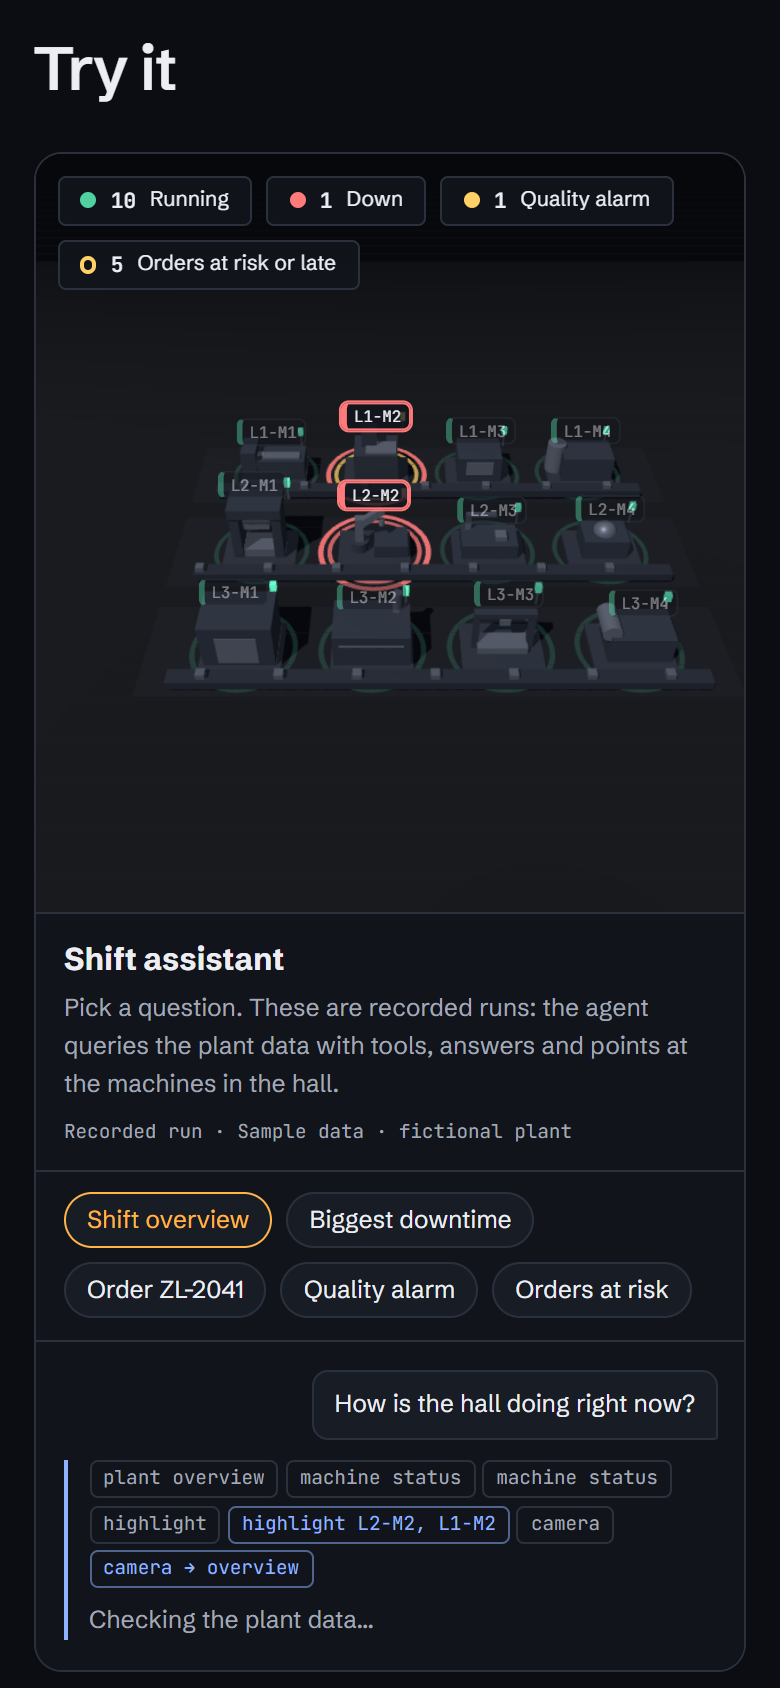
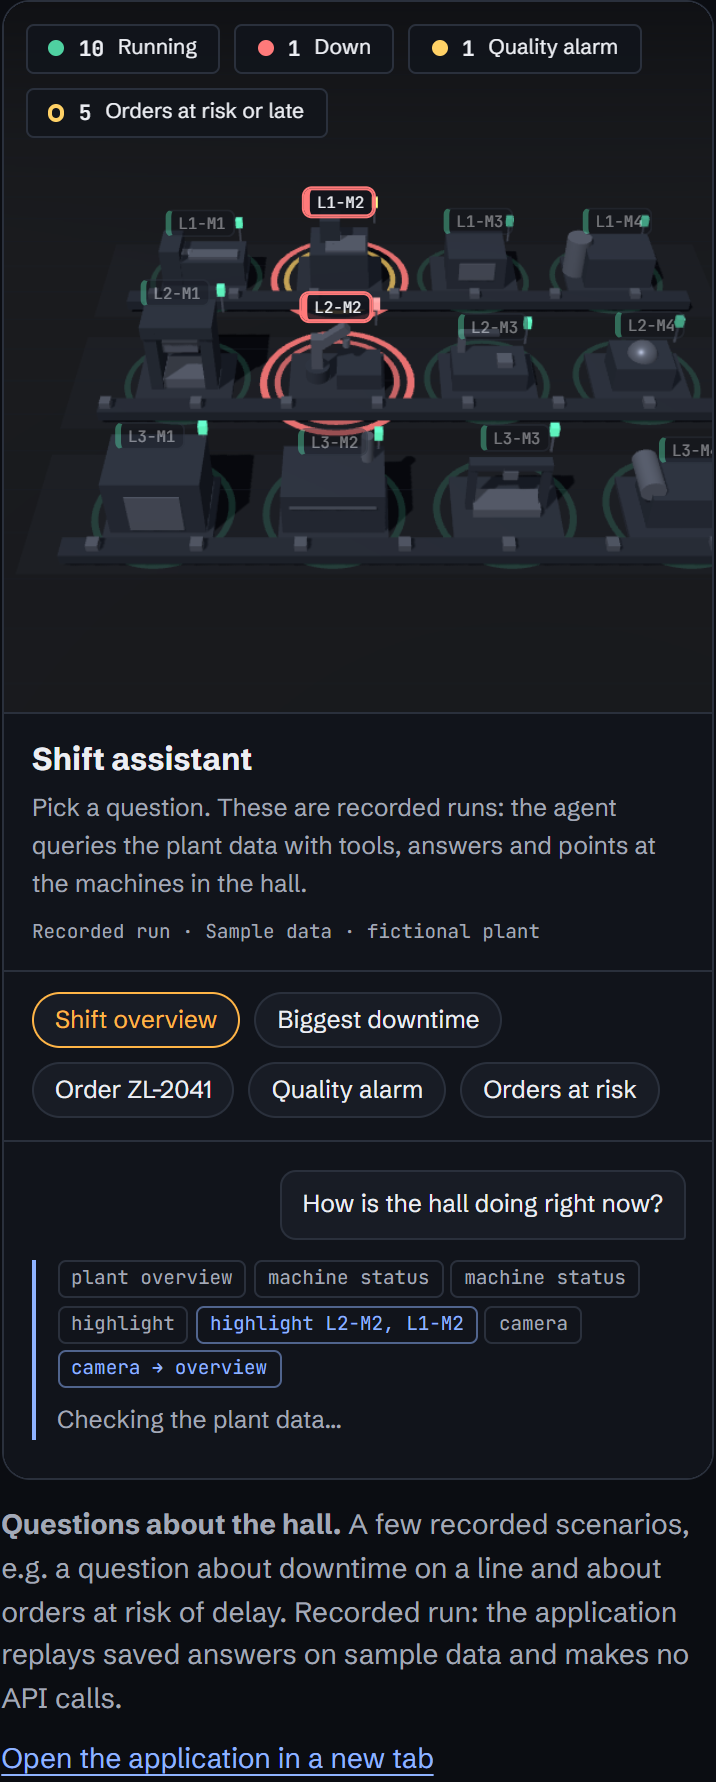
feat(embed): size the Factory Twin frame from its reported height

diff --git a/src/embed.test.ts b/src/embed.test.ts
@@ -1,3 +1,4 @@
+import { readFileSync } from 'node:fs';
 import { describe, expect, it, vi } from 'vitest';
 import {
   applyHeight,
@@ -8,6 +9,7 @@ import {
   reportedHeight,
   TOOL_SANDBOX,
 } from './embed.ts';
+import { TOOL_SLUGS } from './content/types.ts';
 
 // No DOM library in this repo: the figure, slot and document are minimal fakes that carry
 // only what embed.ts touches.
@@ -198,5 +200,25 @@ describe('mountTools', () => {
     const addEventListener = vi.fn();
     mountTools(rootWith([]), { messages: { addEventListener } });
     expect(addEventListener).not.toHaveBeenCalled();
+  });
+});
+
+describe('frame styles', () => {
+  const css = readFileSync(new URL('./styles/content.css', import.meta.url), 'utf8');
+
+  it('lets a sized frame follow the reported height without a cap', () => {
+    const sized = /\.tool--sized \.tool__frame \{([^}]*)\}/.exec(css)?.[1] ?? '';
+    expect(sized).toContain('height: auto');
+    expect(sized).toContain('max-height: none');
+  });
+
+  it('gives no application its own frame size that could clip the reported height', () => {
+    for (const slug of TOOL_SLUGS) {
+      expect(css, slug).not.toContain(`.tool--${slug} .tool__frame`);
+    }
+  });
+
+  it('accepts the height a phone-width Factory Twin reports', () => {
+    expect(reportedHeight({ type: 'factory-twin:height', height: 930 }, 'factory-twin')).toBe(930);
   });
 });

diff --git a/src/styles/content.css b/src/styles/content.css
@@ -323,9 +323,9 @@ main {
 }
 
 /*
- * Case study: the embedded reference application (src/embed.ts). The frame holds a height
- * before the application reports its own; Factory Twin reports none, so it keeps a fixed
- * proportion on wide screens and most of the viewport on phones.
+ * Case study: the embedded reference application (src/embed.ts). The frame holds a starting
+ * height until the application reports its own; every application reports one, and the
+ * frame then follows it.
  */
 .tool {
   margin: var(--space-5) 0 0;
@@ -340,20 +340,6 @@ main {
   border: var(--border-width) solid var(--color-line);
   border-radius: var(--radius-lg);
   background: var(--color-bg-deep);
-}
-
-.tool--factory-twin .tool__frame {
-  height: auto;
-  aspect-ratio: 16 / 10;
-  min-height: 34rem;
-}
-
-@media (max-width: 40rem) {
-  .tool--factory-twin .tool__frame {
-    aspect-ratio: auto;
-    height: 90vh;
-    height: 90svh;
-  }
 }
 
 .tool--sized .tool__frame {

diff --git a/docs/decisions/reference-applications.md b/docs/decisions/reference-applications.md
@@ -18,8 +18,10 @@ and language rules that came with them.
   `event.origin` is the site's own origin and `event.source` is one of the embedded frames;
   heights between 240 and 20 000 px are applied (Grant Assistant reports about 6 700 px on a
   phone)
-- 2026-10-22 — Factory Twin posts no height: its frame keeps a 16:10 proportion (at least 34 rem)
-  on wide screens and 90 % of the viewport height on phones; the section also links the
+- 2026-10-22 — Factory Twin now reports its height (`factory-twin:height`) like the other two
+  applications, so its frame follows the reported height too (about 930 px on a 420 px wide
+  phone) and the 16:10 proportion and the 90 %-of-viewport phone height were dropped; every frame
+  starts at the shared 56 rem until the first report, and the section still links the
   application in a new tab for a full-screen view
 - 2026-10-22 — The build guard skips the applications' own pages (`tools/<slug>/` for locked
   slugs only): their sample data legitimately shows amounts and long numbers, and each
